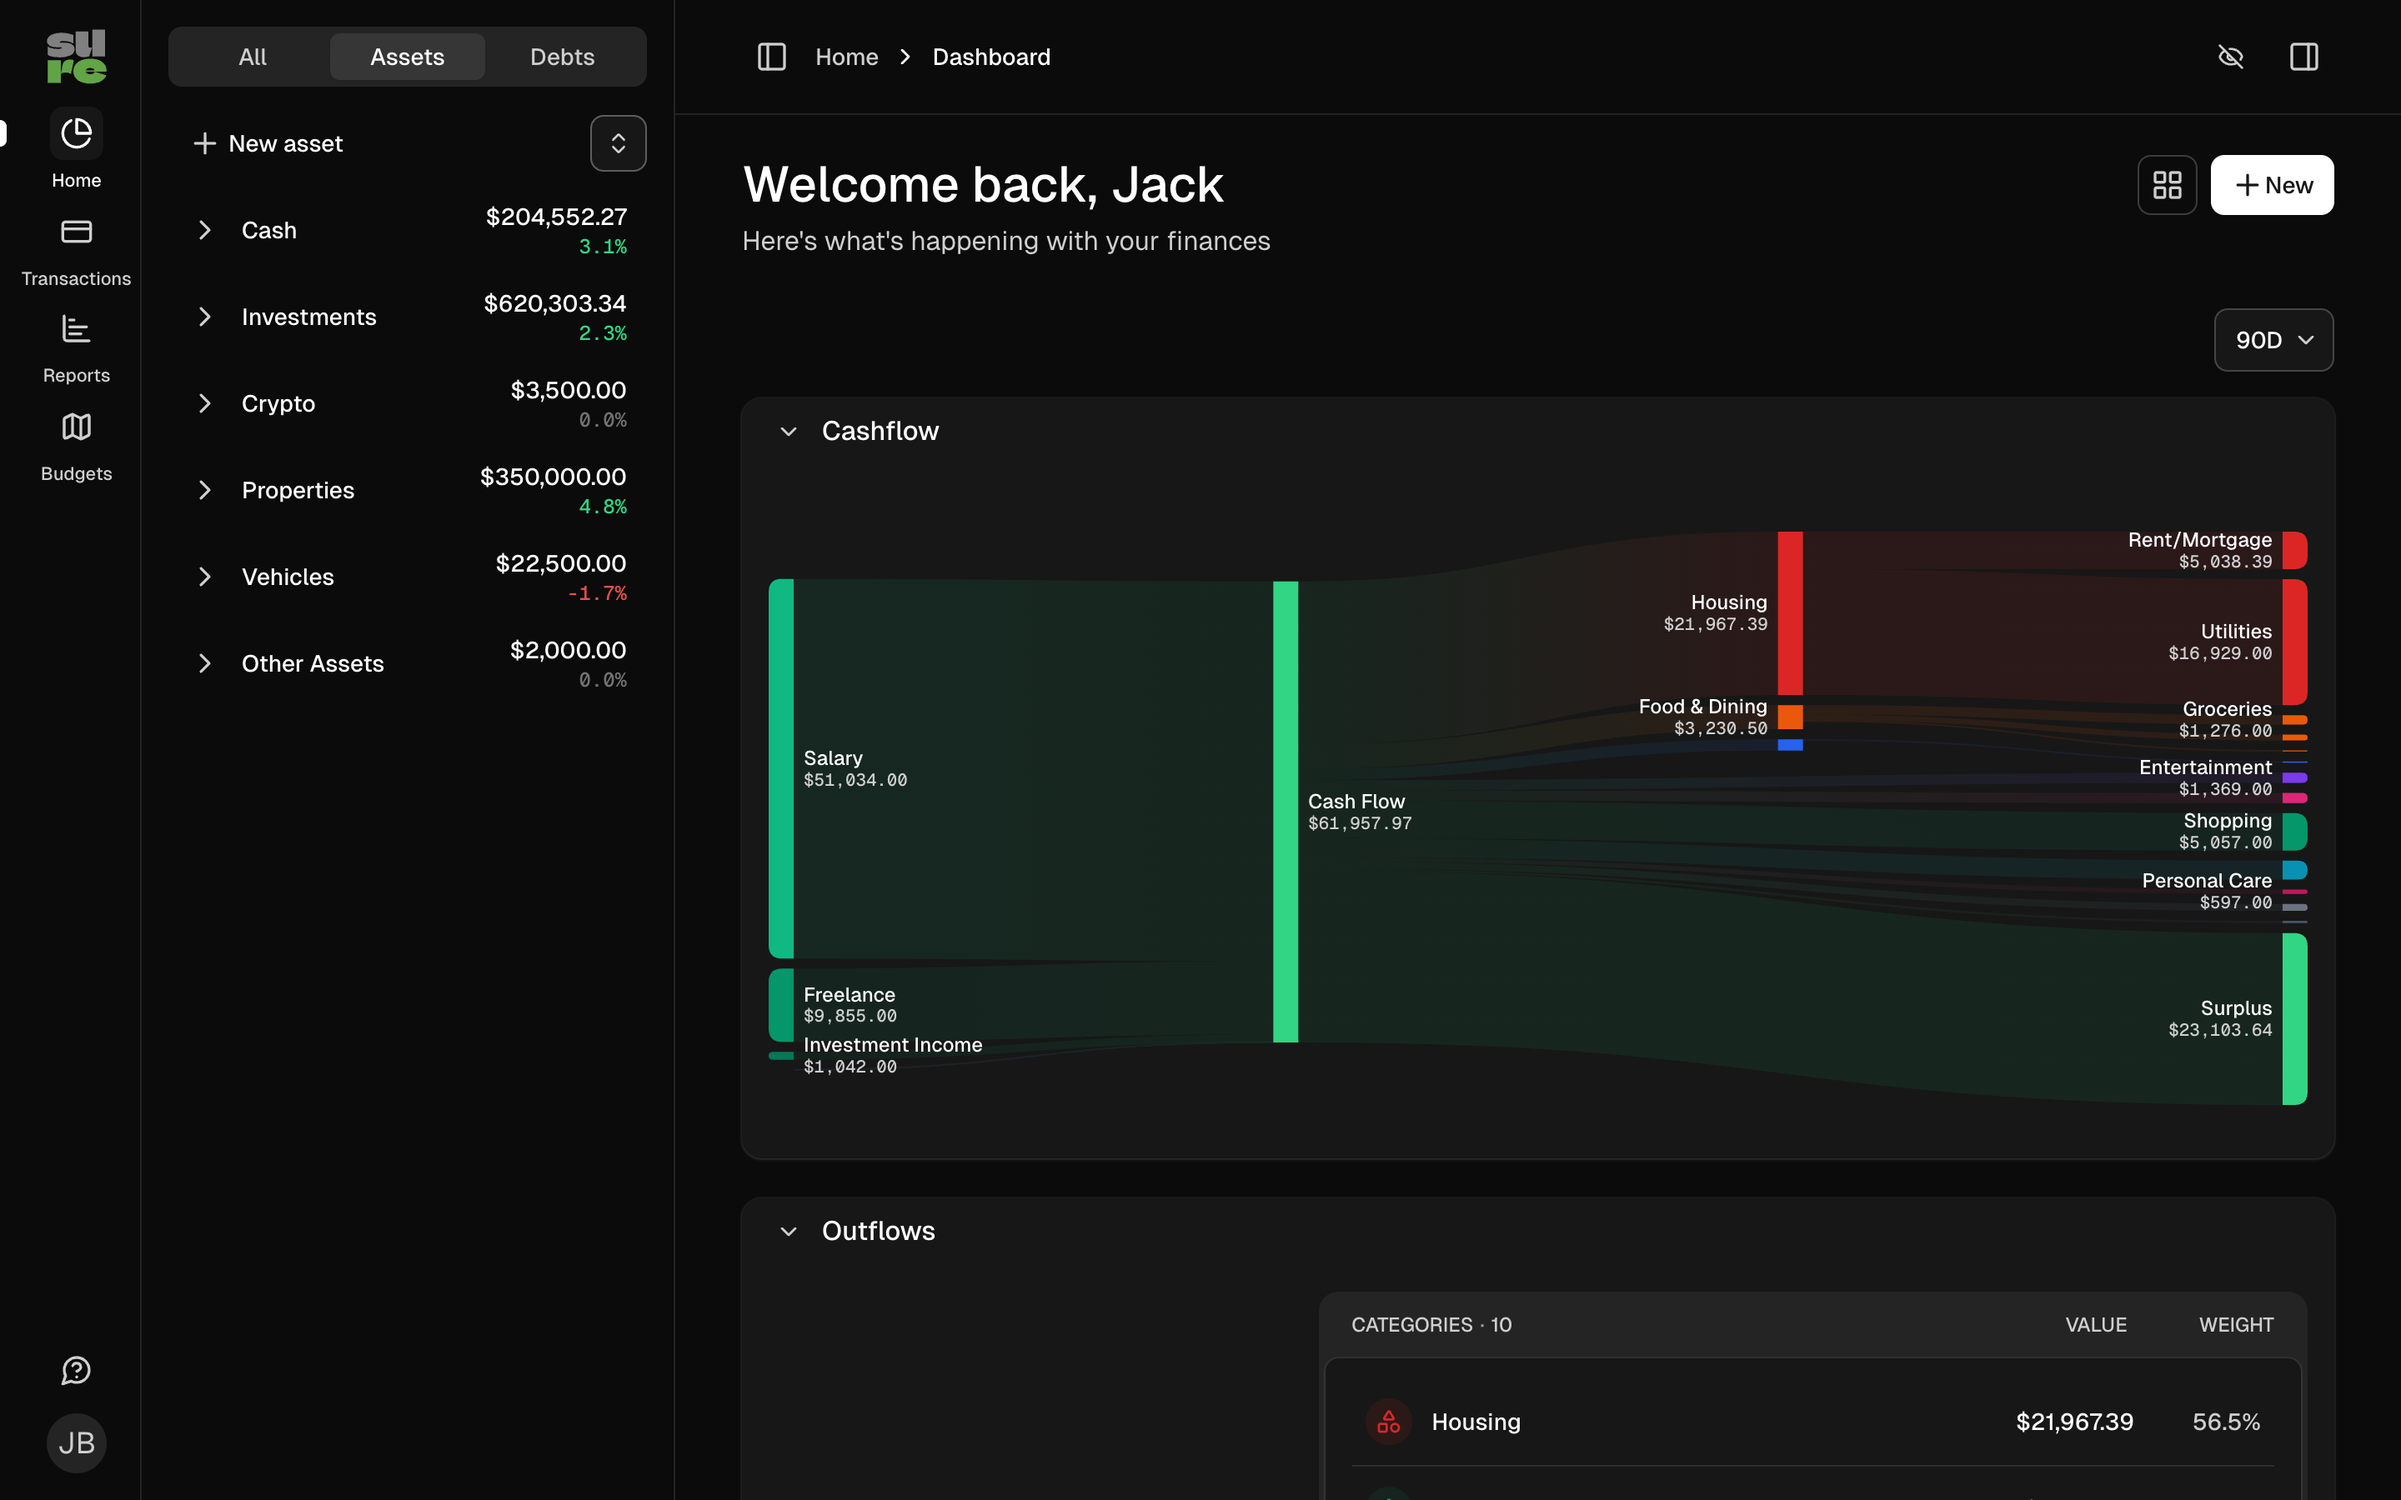
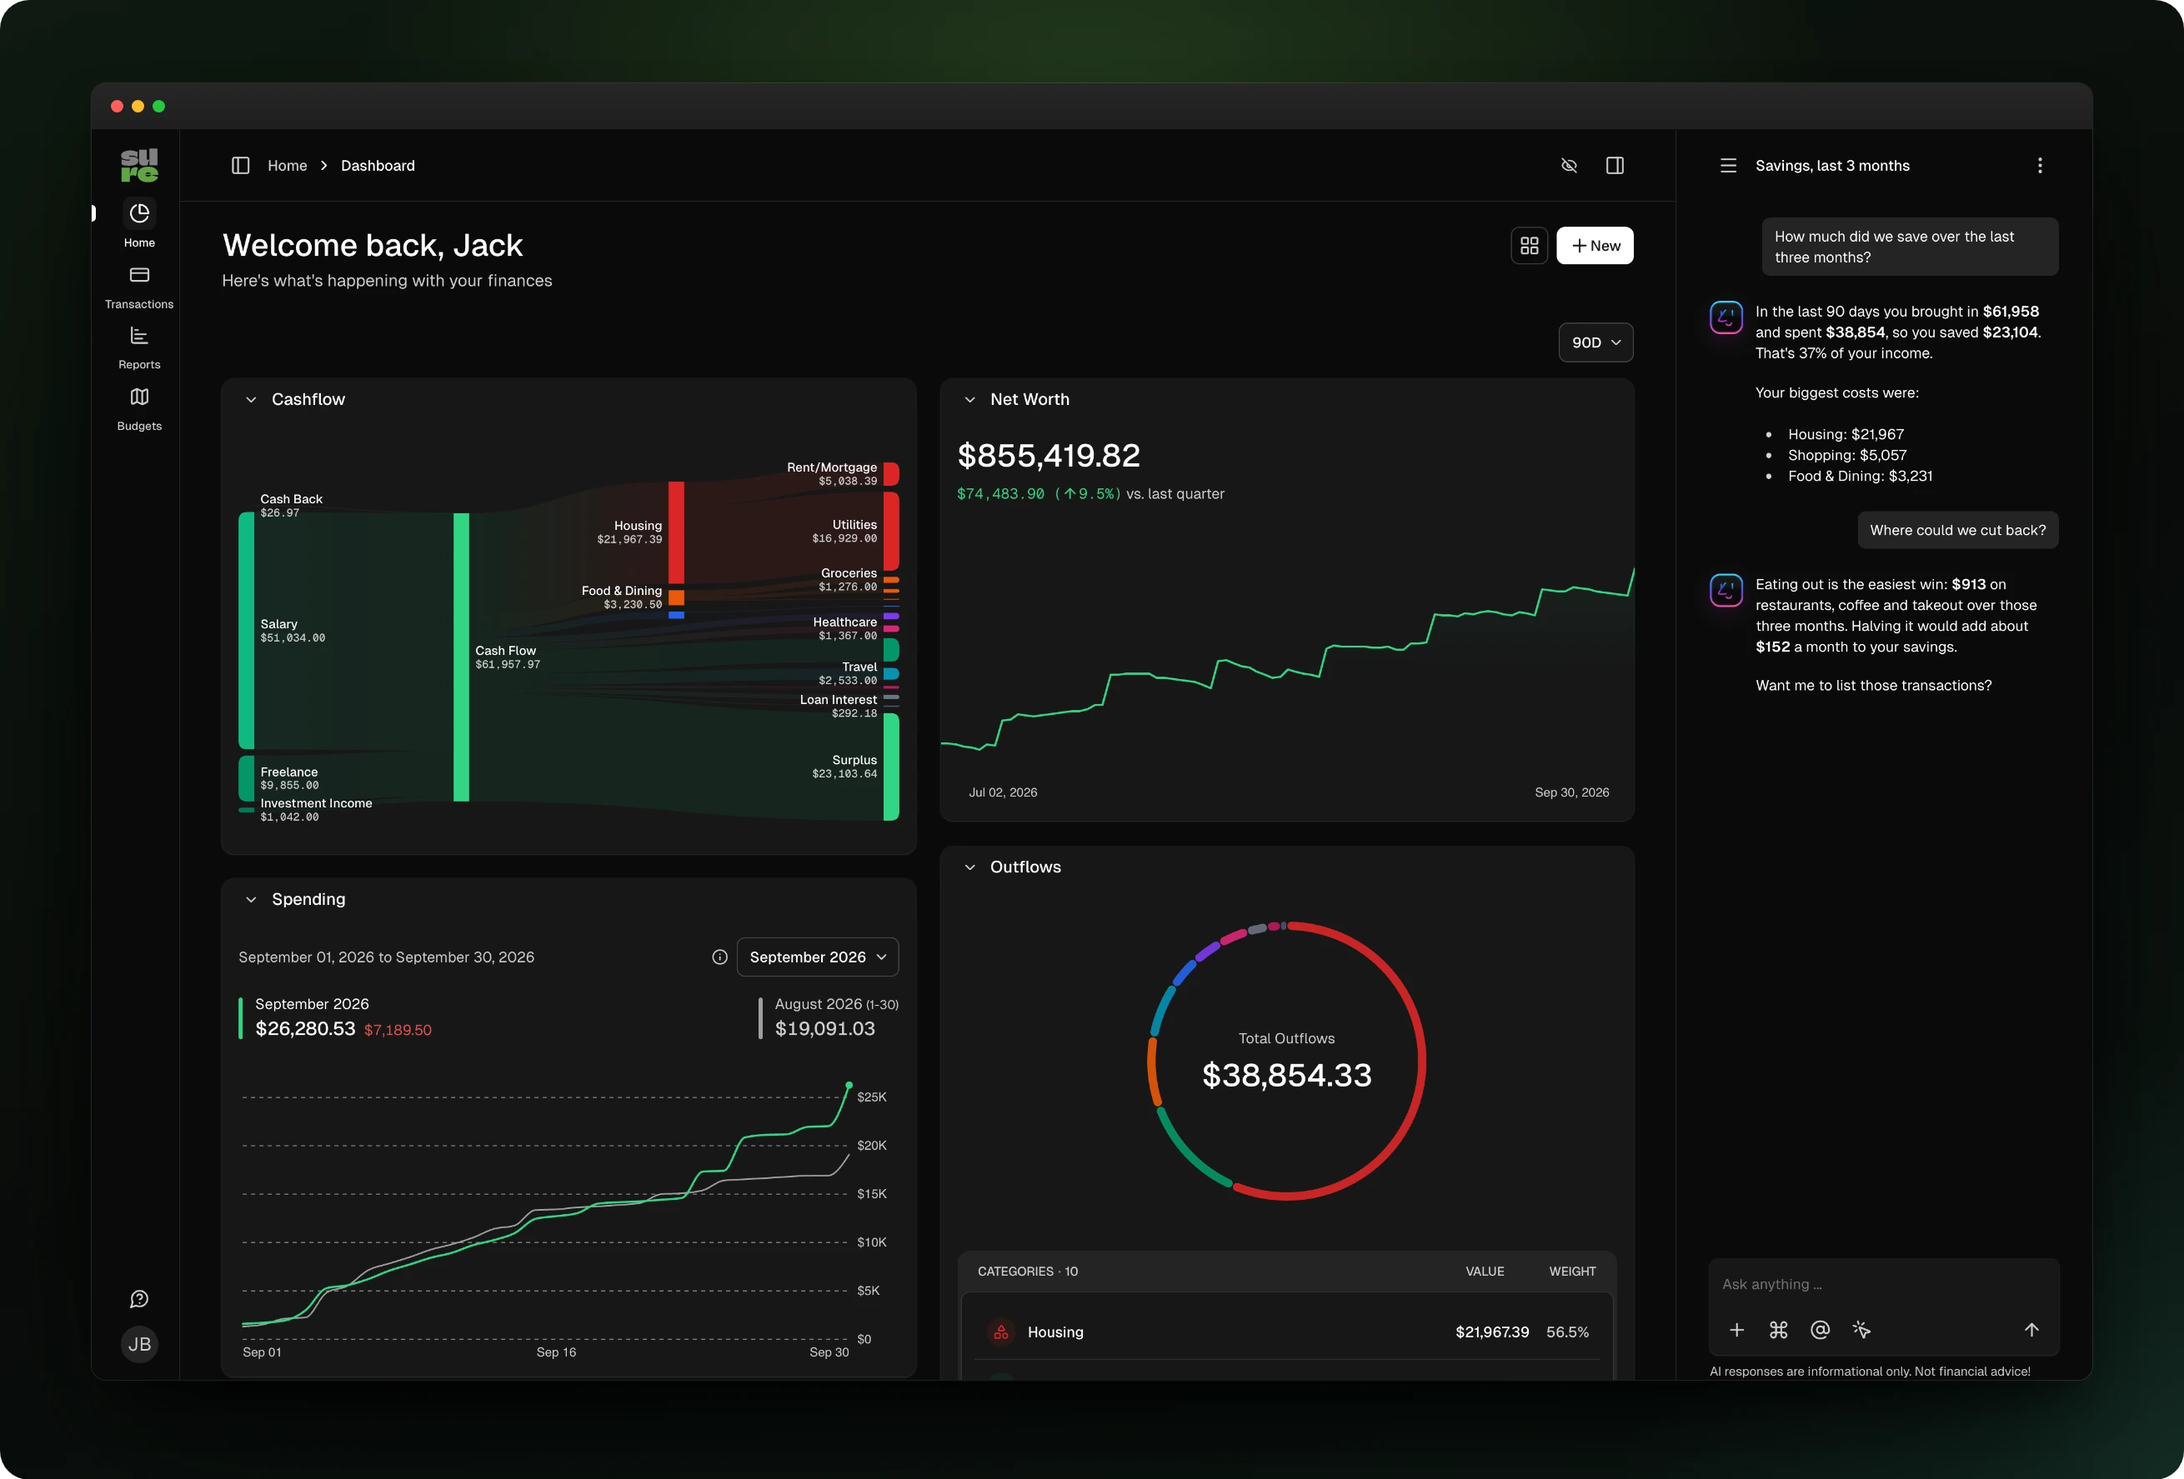
Frame the README hero: two-column dashboard beside the AI assistant
A wider capture (1920x1200) in the dashboard's two-column layout, so
four widgets fit above the fold: cashflow, net worth, spending and
outflows. The assistant sidebar is open on a short conversation about
savings, since the assistant is one of the app's main features and the
old hero showed it too. Its numbers come from the same income statement
as the cashflow chart.

The screenshot sits in a window frame on a backdrop tinted with the
logo's green, in light and dark versions. Lossy WebP at q90 keeps each
image at about 143 KB and is indistinguishable from lossless (PSNR
around 45 dB), which would be about 420 KB.

diff --git a/README.md b/README.md
@@ -5,7 +5,7 @@
 
 <picture>
   <source media="(prefers-color-scheme: dark)" srcset="https://raw.githubusercontent.com/we-promise/sure/main/docs/screenshots/dashboard-dark.webp">
-  <img alt="The Sure dashboard: account balances by type, and a cashflow diagram from income to spending categories" src="https://raw.githubusercontent.com/we-promise/sure/main/docs/screenshots/dashboard-light.webp">
+  <img alt="The Sure dashboard in two columns (cashflow, net worth, spending and outflows) beside the AI assistant answering a question about savings" src="https://raw.githubusercontent.com/we-promise/sure/main/docs/screenshots/dashboard-light.webp">
 </picture>
 
 <p align="center">
